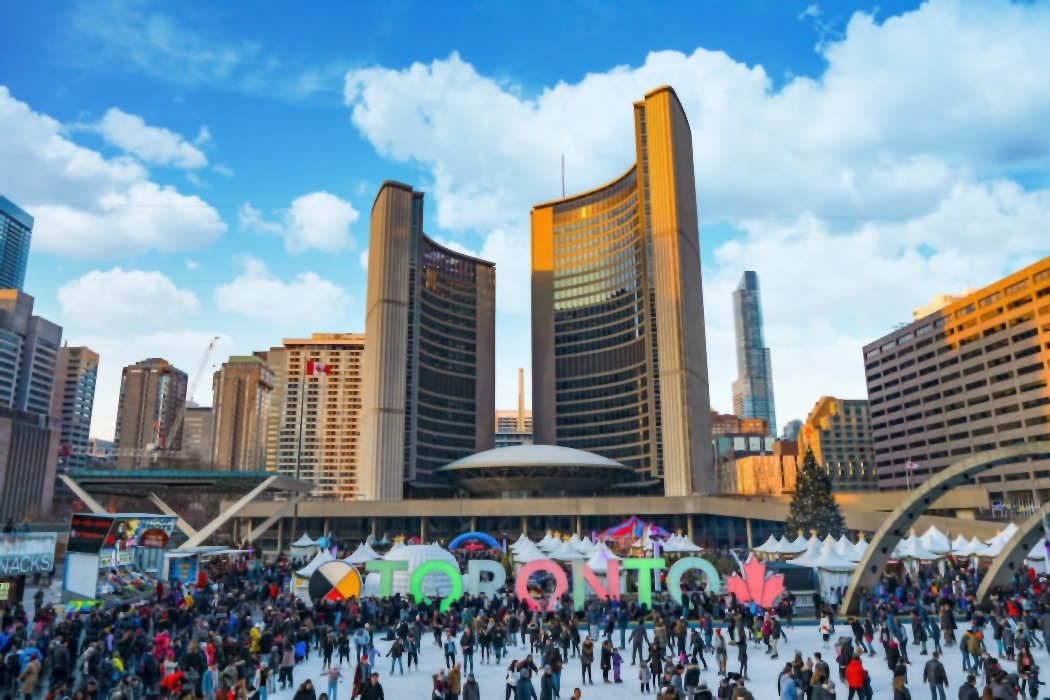
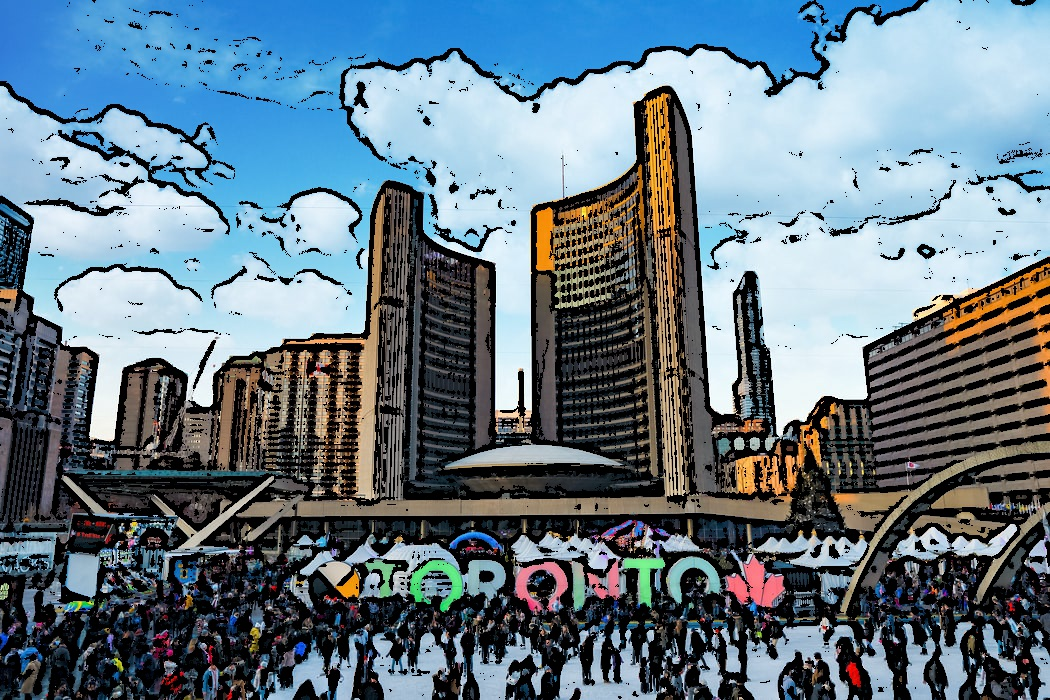
Fix BAires hints and making progresson cartoonize image.

diff --git a/server/cities/cartoonize_img.py b/server/cities/cartoonize_img.py
@@ -4,11 +4,9 @@ import cv2
 import random
 from PIL import Image
 
-city = cv2.imread("Toronto/img/nathan_phillip.jpg")
-matza = cv2.imread("../resources/matza_fix.jpg")
 
 
-def cartoonify(img, numDownSamples=0, numBilateralFilters=3):
+def cartoonify(img, numDownSamples=0, numBilateralFilters=1, skip=True):
 
 	# -- STEP 1 --
 	# downsample image using Gaussian pyramid
@@ -28,29 +26,34 @@ def cartoonify(img, numDownSamples=0, numBilateralFilters=3):
 
 	# -- STEPS 2 and 3 --
 	# convert to grayscale and apply median blur
-	img_gray = img_color #cv2.cvtColor(img_rgb, cv2.COLOR_RGB2GRAY)
-	img_blur = img_color #cv2.medianBlur(img_gray, 9)
+	if (skip is False):
+		return img_color
+	img_gray = cv2.cvtColor(img_rgb, cv2.COLOR_RGB2GRAY)
+	img_blur = cv2.medianBlur(img_gray, 3)
 
 	# -- STEP 4 --
 	# detect and enhance edges
-	img_edge = img_color #cv2.adaptiveThreshold(img_blur, 255, cv2.ADAPTIVE_THRESH_MEAN_C, cv2.THRESH_BINARY, 9, 2)
+	img_edge = cv2.adaptiveThreshold(img_blur, 255, cv2.ADAPTIVE_THRESH_MEAN_C, cv2.THRESH_BINARY, 9, 2)
 
 	# -- STEP 5 --
 	# convert back to color so that it can be bit-ANDed
 	# with color image
-	img_edge = img_color #cv2.cvtColor(img_edge, cv2.COLOR_GRAY2RGB)
-	new_img = img_color #cv2.bitwise_and(img_rgb, img_edge)
+	img_edge = cv2.cvtColor(img_edge, cv2.COLOR_GRAY2RGB)
+	new_img = cv2.bitwise_and(img_rgb, img_edge)
 	return new_img
 
 
 if __name__ == '__main__':
-	city = cartoonify(city)
-	cv2.imwrite("Toronto/img/new_city.jpg", city)
-	matza = cartoonify(matza)
-	cv2.imwrite("Toronto/img/new_matza.jpg", matza)
+
+	city = cv2.imread("Toronto/img/nathan_phillip.jpg", cv2.IMREAD_UNCHANGED)
+	matza = cv2.imread("../resources/afikomen.png", cv2.IMREAD_UNCHANGED)
+	# city = cartoonify(city)
+	# cv2.imwrite("Toronto/img/new_city.jpg", city)
+	# matza = cartoonify(matza)
+	# cv2.imwrite("Toronto/img/new_matza.jpg", matza)
 
 	# Matza resizing 
-	scale_percent = 2 # percent of original size
+	scale_percent = 10 # percent of original size
 	width = int(matza.shape[1] * scale_percent / 100)
 	height = int(matza.shape[0] * scale_percent / 100)
 	dim = (width, height)
@@ -73,12 +76,18 @@ if __name__ == '__main__':
 	y1, y2 = y_offset, y_offset + matza.shape[0]
 	x1, x2 = x_offset, x_offset + matza.shape[1]
 
-	# This does some fancy channel stuff
-	# for c in range(0, 3):
-	#     city[y1:y2, x1:x2, c] = (matza[:, :, c] +
-	#                               city[y1:y2, x1:x2, c])
+	# Fancy channel stuff
+	if(matza.shape[2] == 4):
 
+		alpha_s = matza[:, :, 3] / 255.0
+		alpha_l = 1.0 - alpha_s
+
+		for c in range(0, 3):
+		    city[y1:y2, x1:x2, c] = (alpha_s * matza[:, :, c] +
+		                              alpha_l * city[y1:y2, x1:x2, c])
+	else:
 	# This doesnt do fancy channel stuff, adds city and matza
-	city[y_offset:y_offset+matza.shape[0], x_offset:x_offset+matza.shape[1]] = matza
+		city[y_offset:y_offset+matza.shape[0], x_offset:x_offset+matza.shape[1]] = matza
 
-	cv2.imwrite("Toronto/img/cartoon.jpg", city)
+	cv2.imshow("Toronto/img/cartoon.jpg", cartoonify(city))
+	cv2.waitKey()
